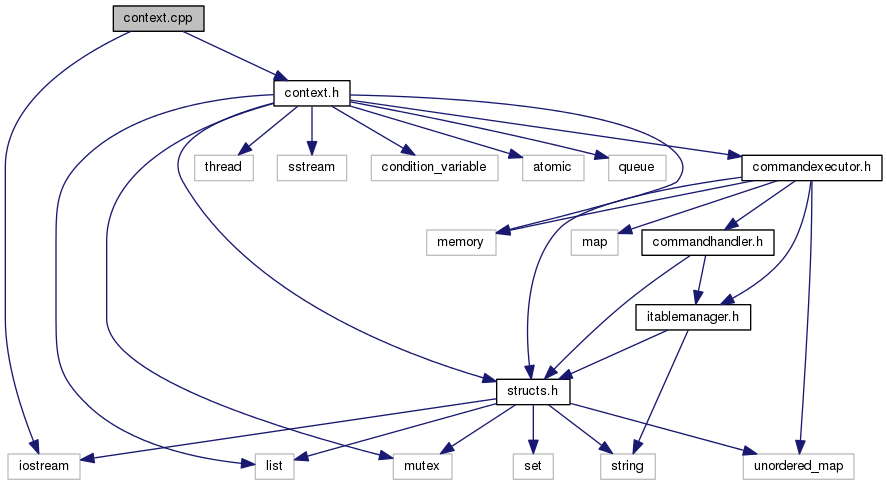
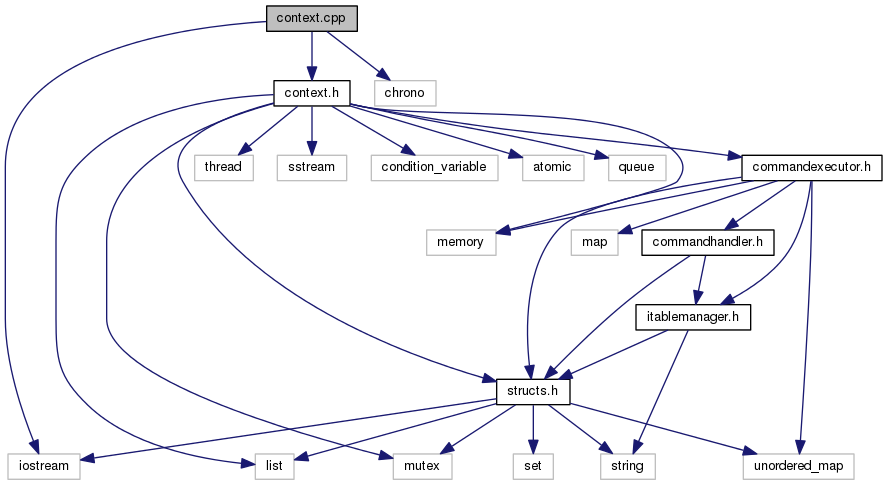
Deploy mgorshkov/join_server to github.com/mgorshkov/join_server.git:gh-pages

diff --git a/context_8h_source.html b/context_8h_source.html
@@ -123,25 +123,27 @@ var searchBox = new SearchBox("searchBox", "search",false,'Search');
 <div class="line"><a name="l00037"></a><span class="lineno">   37</span>&#160;    std::stringstream mStream;</div>
 <div class="line"><a name="l00038"></a><span class="lineno">   38</span>&#160;    std::mutex mStreamMutex;</div>
 <div class="line"><a name="l00039"></a><span class="lineno">   39</span>&#160;    std::condition_variable mCondition;</div>
-<div class="line"><a name="l00040"></a><span class="lineno">   40</span>&#160;    std::atomic_bool mDone{<span class="keyword">false</span>};</div>
-<div class="line"><a name="l00041"></a><span class="lineno">   41</span>&#160;    std::atomic_bool mNotified{<span class="keyword">false</span>};</div>
-<div class="line"><a name="l00042"></a><span class="lineno">   42</span>&#160;</div>
-<div class="line"><a name="l00043"></a><span class="lineno">   43</span>&#160;    std::thread mThread;</div>
+<div class="line"><a name="l00040"></a><span class="lineno">   40</span>&#160;    std::condition_variable mQueueCondition;</div>
+<div class="line"><a name="l00041"></a><span class="lineno">   41</span>&#160;    std::atomic_bool mDone{<span class="keyword">false</span>};</div>
+<div class="line"><a name="l00042"></a><span class="lineno">   42</span>&#160;    std::atomic_bool mNotified{<span class="keyword">false</span>};</div>
+<div class="line"><a name="l00043"></a><span class="lineno">   43</span>&#160;    std::atomic_bool mQueueNotified{<span class="keyword">false</span>};</div>
 <div class="line"><a name="l00044"></a><span class="lineno">   44</span>&#160;</div>
-<div class="line"><a name="l00045"></a><span class="lineno">   45</span>&#160;    std::queue&lt;CompleteOperationStatuses&gt; mOutboundStatuses;</div>
-<div class="line"><a name="l00046"></a><span class="lineno">   46</span>&#160;    std::mutex mQueueMutex;</div>
-<div class="line"><a name="l00047"></a><span class="lineno">   47</span>&#160;};</div>
+<div class="line"><a name="l00045"></a><span class="lineno">   45</span>&#160;    std::thread mThread;</div>
+<div class="line"><a name="l00046"></a><span class="lineno">   46</span>&#160;</div>
+<div class="line"><a name="l00047"></a><span class="lineno">   47</span>&#160;    std::queue&lt;CompleteOperationStatuses&gt; mOutboundStatuses;</div>
+<div class="line"><a name="l00048"></a><span class="lineno">   48</span>&#160;    std::mutex mQueueMutex;</div>
+<div class="line"><a name="l00049"></a><span class="lineno">   49</span>&#160;};</div>
 <div class="ttc" id="structs_8h_html"><div class="ttname"><a href="structs_8h.html">structs.h</a></div></div>
-<div class="ttc" id="classContext_html_a1258d59c0887c694f943401907dfd4bf"><div class="ttname"><a href="classContext.html#a1258d59c0887c694f943401907dfd4bf">Context::Context</a></div><div class="ttdeci">Context(std::shared_ptr&lt; CommandExecutor &gt; aCommandExecutor=nullptr)</div><div class="ttdef"><b>Definition:</b> context.cpp:5</div></div>
+<div class="ttc" id="classContext_html_a1258d59c0887c694f943401907dfd4bf"><div class="ttname"><a href="classContext.html#a1258d59c0887c694f943401907dfd4bf">Context::Context</a></div><div class="ttdeci">Context(std::shared_ptr&lt; CommandExecutor &gt; aCommandExecutor=nullptr)</div><div class="ttdef"><b>Definition:</b> context.cpp:7</div></div>
 <div class="ttc" id="classContext_html"><div class="ttname"><a href="classContext.html">Context</a></div><div class="ttdef"><b>Definition:</b> context.h:15</div></div>
-<div class="ttc" id="classContext_html_a9eddc3597a129306ed5e5194db0b1ccf"><div class="ttname"><a href="classContext.html#a9eddc3597a129306ed5e5194db0b1ccf">Context::Stop</a></div><div class="ttdeci">void Stop()</div><div class="ttdef"><b>Definition:</b> context.cpp:64</div></div>
-<div class="ttc" id="classContext_html_a2d34e4556448e40693f61d15e091b604"><div class="ttname"><a href="classContext.html#a2d34e4556448e40693f61d15e091b604">Context::~Context</a></div><div class="ttdeci">~Context()</div><div class="ttdef"><b>Definition:</b> context.cpp:13</div></div>
-<div class="ttc" id="classContext_html_a1a24ae2b78bf7d25bb97b73df6b73340"><div class="ttname"><a href="classContext.html#a1a24ae2b78bf7d25bb97b73df6b73340">Context::Start</a></div><div class="ttdeci">void Start()</div><div class="ttdef"><b>Definition:</b> context.cpp:26</div></div>
-<div class="ttc" id="classContext_html_a905579002f13e66975a61f4fffeb282c"><div class="ttname"><a href="classContext.html#a905579002f13e66975a61f4fffeb282c">Context::GetOutboundQueue</a></div><div class="ttdeci">CompleteOperationStatuses GetOutboundQueue()</div><div class="ttdef"><b>Definition:</b> context.cpp:85</div></div>
-<div class="ttc" id="classContext_html_af0b92cad0d49b7fce320cb859f41bb9d"><div class="ttname"><a href="classContext.html#af0b92cad0d49b7fce320cb859f41bb9d">Context::SetExecutor</a></div><div class="ttdeci">void SetExecutor(std::shared_ptr&lt; CommandExecutor &gt; aCommandExecutor)</div><div class="ttdef"><b>Definition:</b> context.cpp:21</div></div>
+<div class="ttc" id="classContext_html_a9eddc3597a129306ed5e5194db0b1ccf"><div class="ttname"><a href="classContext.html#a9eddc3597a129306ed5e5194db0b1ccf">Context::Stop</a></div><div class="ttdeci">void Stop()</div><div class="ttdef"><b>Definition:</b> context.cpp:67</div></div>
+<div class="ttc" id="classContext_html_a2d34e4556448e40693f61d15e091b604"><div class="ttname"><a href="classContext.html#a2d34e4556448e40693f61d15e091b604">Context::~Context</a></div><div class="ttdeci">~Context()</div><div class="ttdef"><b>Definition:</b> context.cpp:15</div></div>
+<div class="ttc" id="classContext_html_a1a24ae2b78bf7d25bb97b73df6b73340"><div class="ttname"><a href="classContext.html#a1a24ae2b78bf7d25bb97b73df6b73340">Context::Start</a></div><div class="ttdeci">void Start()</div><div class="ttdef"><b>Definition:</b> context.cpp:28</div></div>
+<div class="ttc" id="classContext_html_a905579002f13e66975a61f4fffeb282c"><div class="ttname"><a href="classContext.html#a905579002f13e66975a61f4fffeb282c">Context::GetOutboundQueue</a></div><div class="ttdeci">CompleteOperationStatuses GetOutboundQueue()</div><div class="ttdef"><b>Definition:</b> context.cpp:88</div></div>
+<div class="ttc" id="classContext_html_af0b92cad0d49b7fce320cb859f41bb9d"><div class="ttname"><a href="classContext.html#af0b92cad0d49b7fce320cb859f41bb9d">Context::SetExecutor</a></div><div class="ttdeci">void SetExecutor(std::shared_ptr&lt; CommandExecutor &gt; aCommandExecutor)</div><div class="ttdef"><b>Definition:</b> context.cpp:23</div></div>
 <div class="ttc" id="structs_8h_html_ab0e813430bb62ca51b84434c81b7b9c1"><div class="ttname"><a href="structs_8h.html#ab0e813430bb62ca51b84434c81b7b9c1">CompleteOperationStatuses</a></div><div class="ttdeci">std::list&lt; CompleteOperationStatus &gt; CompleteOperationStatuses</div><div class="ttdef"><b>Definition:</b> structs.h:117</div></div>
 <div class="ttc" id="commandexecutor_8h_html"><div class="ttname"><a href="commandexecutor_8h.html">commandexecutor.h</a></div></div>
-<div class="ttc" id="classContext_html_ab1aeef7739d1924c9039b75fef26bc4c"><div class="ttname"><a href="classContext.html#ab1aeef7739d1924c9039b75fef26bc4c">Context::ProcessData</a></div><div class="ttdeci">void ProcessData(const char *aData, std::size_t aSize)</div><div class="ttdef"><b>Definition:</b> context.cpp:40</div></div>
+<div class="ttc" id="classContext_html_ab1aeef7739d1924c9039b75fef26bc4c"><div class="ttname"><a href="classContext.html#ab1aeef7739d1924c9039b75fef26bc4c">Context::ProcessData</a></div><div class="ttdeci">void ProcessData(const char *aData, std::size_t aSize)</div><div class="ttdef"><b>Definition:</b> context.cpp:43</div></div>
 </div><!-- fragment --></div><!-- contents -->
 <!-- start footer part -->
 <hr class="footer"/><address class="footer"><small>

diff --git a/context_8cpp.html b/context_8cpp.html
@@ -85,13 +85,14 @@ var searchBox = new SearchBox("searchBox", "search",false,'Search');
 </div><!--header-->
 <div class="contents">
 <div class="textblock"><code>#include &lt;iostream&gt;</code><br/>
+<code>#include &lt;chrono&gt;</code><br/>
 <code>#include &quot;<a class="el" href="context_8h_source.html">context.h</a>&quot;</code><br/>
 </div><div class="textblock"><div class="dynheader">
 Include dependency graph for context.cpp:</div>
 <div class="dyncontent">
 <div class="center"><img src="context_8cpp__incl.png" border="0" usemap="#context_8cpp" alt=""/></div>
 <map name="context_8cpp" id="context_8cpp">
-<area shape="rect" id="node3" href="context_8h.html" title="context.h" alt="" coords="274,80,349,107"/><area shape="rect" id="node12" href="commandexecutor_8h.html" title="commandexecutor.h" alt="" coords="742,155,881,181"/><area shape="rect" id="node17" href="structs_8h.html" title="structs.h" alt="" coords="497,379,569,405"/><area shape="rect" id="node15" href="itablemanager_8h.html" title="itablemanager.h" alt="" coords="636,304,751,331"/><area shape="rect" id="node19" href="commandhandler_8h.html" title="commandhandler.h" alt="" coords="642,229,773,256"/></map>
+<area shape="rect" id="node4" href="context_8h.html" title="context.h" alt="" coords="274,80,349,107"/><area shape="rect" id="node13" href="commandexecutor_8h.html" title="commandexecutor.h" alt="" coords="742,155,881,181"/><area shape="rect" id="node18" href="structs_8h.html" title="structs.h" alt="" coords="497,379,569,405"/><area shape="rect" id="node16" href="itablemanager_8h.html" title="itablemanager.h" alt="" coords="636,304,751,331"/><area shape="rect" id="node20" href="commandhandler_8h.html" title="commandhandler.h" alt="" coords="642,229,773,256"/></map>
 </div>
 </div></div><!-- contents -->
 <!-- start footer part -->

diff --git a/version_8h.html b/version_8h.html
@@ -91,7 +91,7 @@ var searchBox = new SearchBox("searchBox", "search",false,'Search');
 <table class="memberdecls">
 <tr class="heading"><td colspan="2"><h2 class="groupheader"><a name="define-members"></a>
 Macros</h2></td></tr>
-<tr class="memitem:a4a5fc96a4bdd7d68ed99ccce9ca2e77e"><td class="memItemLeft" align="right" valign="top">#define&#160;</td><td class="memItemRight" valign="bottom"><a class="el" href="version_8h.html#a4a5fc96a4bdd7d68ed99ccce9ca2e77e">PROJECT_VERSION_PATCH</a>&#160;&#160;&#160;17</td></tr>
+<tr class="memitem:a4a5fc96a4bdd7d68ed99ccce9ca2e77e"><td class="memItemLeft" align="right" valign="top">#define&#160;</td><td class="memItemRight" valign="bottom"><a class="el" href="version_8h.html#a4a5fc96a4bdd7d68ed99ccce9ca2e77e">PROJECT_VERSION_PATCH</a>&#160;&#160;&#160;18</td></tr>
 <tr class="separator:a4a5fc96a4bdd7d68ed99ccce9ca2e77e"><td class="memSeparator" colspan="2">&#160;</td></tr>
 </table>
 <h2 class="groupheader">Macro Definition Documentation</h2>
@@ -100,7 +100,7 @@ Macros</h2></td></tr>
 <div class="memproto">
       <table class="memname">
         <tr>
-          <td class="memname">#define PROJECT_VERSION_PATCH&#160;&#160;&#160;17</td>
+          <td class="memname">#define PROJECT_VERSION_PATCH&#160;&#160;&#160;18</td>
         </tr>
       </table>
 </div><div class="memdoc">

diff --git a/version_8h_source.html b/version_8h_source.html
@@ -86,7 +86,7 @@ var searchBox = new SearchBox("searchBox", "search",false,'Search');
 <div class="contents">
 <a href="version_8h.html">Go to the documentation of this file.</a><div class="fragment"><div class="line"><a name="l00001"></a><span class="lineno">    1</span>&#160;<span class="preprocessor">#pragma once</span></div>
 <div class="line"><a name="l00002"></a><span class="lineno">    2</span>&#160;<span class="preprocessor"></span></div>
-<div class="line"><a name="l00003"></a><span class="lineno"><a class="line" href="version_8h.html#a4a5fc96a4bdd7d68ed99ccce9ca2e77e">    3</a></span>&#160;<span class="preprocessor">#define PROJECT_VERSION_PATCH 17</span></div>
+<div class="line"><a name="l00003"></a><span class="lineno"><a class="line" href="version_8h.html#a4a5fc96a4bdd7d68ed99ccce9ca2e77e">    3</a></span>&#160;<span class="preprocessor">#define PROJECT_VERSION_PATCH 18</span></div>
 </div><!-- fragment --></div><!-- contents -->
 <!-- start footer part -->
 <hr class="footer"/><address class="footer"><small>
